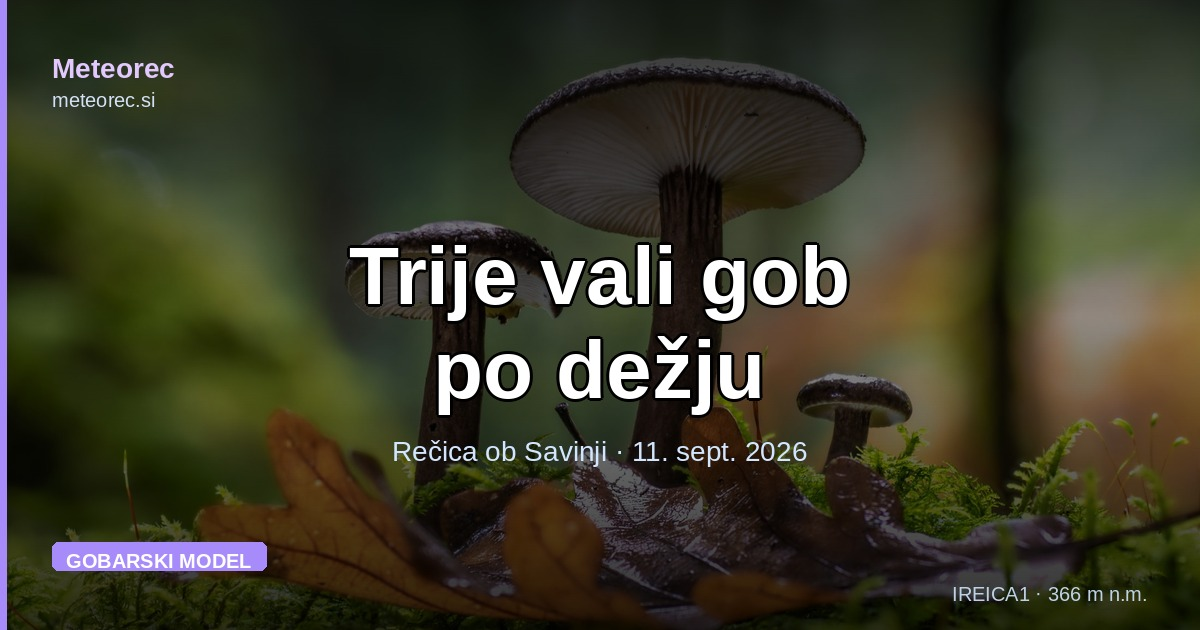
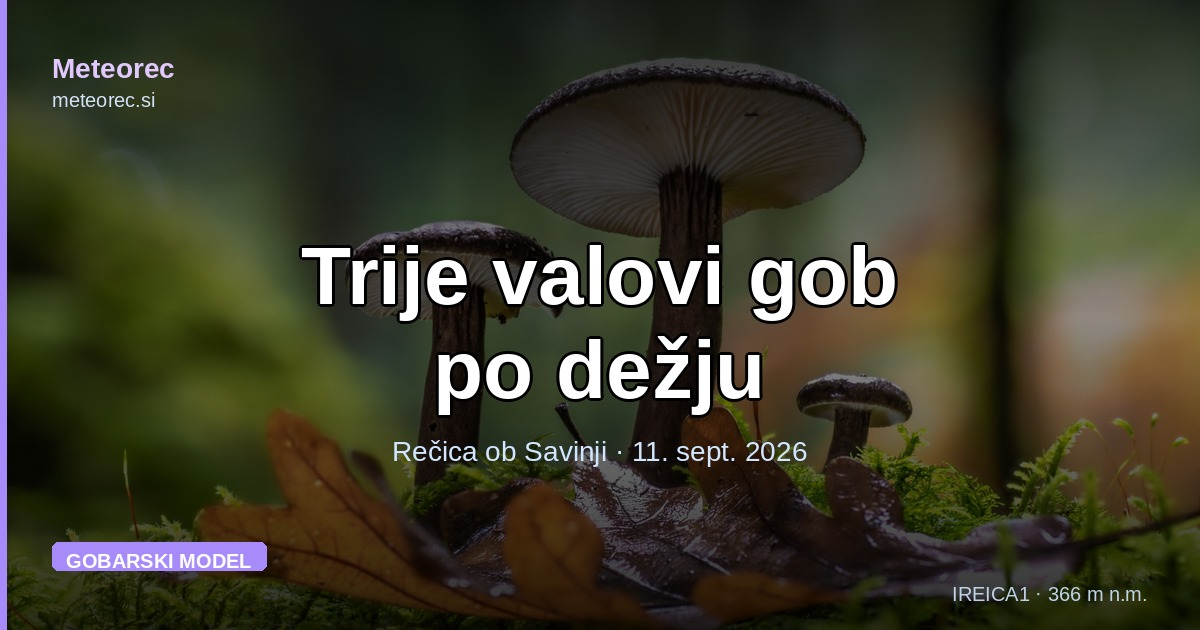
Prezasnuj članek: Trije valovi gob po dežju na dežju sreda-danes
Prejšnja različica je temeljila na dveh manjših dežjih (2. in 5. sept.,
9,7 mm) in trenutnem indeksu, ki je izhajal iz starejšega dežja. Po
avtorjevi zahtevi je članek zdaj zgrajen izključno na dogodku sreda-danes:
četrtkov naliv 85,1 mm (po torkovih 32,9 °C) je edini sprožilec, danes
(petek) je prvi dan po njem, noben od treh valov se še ni začel.

Besedilo je šlo skozi ročno lekturo avtorja (slovnica, izogibanje
"window"-kalku pri opisu padavinskih oken, naravnejši prehodi med
meritvami). Interaktivni drsnik privzeto štarta na dnevu 1 z enim
"danes" markerjem namesto prejšnjih dveh dežnih markerjev.

Ponovno oženo prek wire_all() (posodobljen title/summary v blog.json,
sitemap, RSS, related.json, teme/sorodni povezave, OG slika) --
seo_audit.py in geo_audit.py oba brez napak.

Claude-Session: https://claude.ai/code/session_013P9fH9aUH9qviz2HgqRiyf

Changed region(s): [[0.2467, 0.3619, 0.7708, 0.5127]]

diff --git a/blog/trije-vali-gob-po-dezju-0911.html b/blog/trije-vali-gob-po-dezju-0911.html
@@ -17,19 +17,19 @@ j=d.createElement(s),dl=l!='dataLayer'?'&l='+l:'';j.async=true;j.src=
   gtag('config', 'G-LE8PJ1HR8B');
 </script>
 <meta name="viewport" content="width=device-width, initial-scale=1.0">
-<title>Trije vali gob po dežju | Meteorec</title>
+<title>Trije valovi gob po dežju | Meteorec</title>
 <link rel="canonical" href="https://meteorec.si/blog/trije-vali-gob-po-dezju-0911.html">
 <link rel="alternate" hreflang="sl" href="https://meteorec.si/blog/trije-vali-gob-po-dezju-0911.html">
 <link rel="alternate" hreflang="x-default" href="https://meteorec.si/blog/trije-vali-gob-po-dezju-0911.html">
-<meta name="description" content="Po dežju ne zrastejo vse gobe naenkrat. Razkrojevalke se odzovejo v nekaj dneh, mikorizne vrste (jurčki, lisičke) pa šele čez teden in pol – tem se je pri nas okno pravkar odprlo.">
+<meta name="description" content="V četrtek je v Rečici ob Savinji v enem dnevu padlo 85 mm dežja, temperatura pa se je spustila z 32,9 na 17,5 °C. A gozd se ne odzove čez noč: razkrojevalke pridejo prve, že jutri, mikorizne vrste (jurčki, lisičke) pa šele čez teden in pol.">
 <meta name="keywords" content="katere gobe zrastejo prve po dežju, gobarski indeks, zamik rasti gob, mikorizne glive, razkrojevalke gob, jurček lisička sezona">
 <meta name="robots" content="index, follow, max-image-preview:large">
 <meta name="author" content="Filip Eremita">
 <meta property="og:type" content="article">
 <meta property="og:url" content="https://meteorec.si/blog/trije-vali-gob-po-dezju-0911.html">
 <meta property="og:site_name" content="Meteorec">
-<meta property="og:title" content="Trije vali gob po dežju: kdo pride prvi in kdo šele čez dva tedna">
-<meta property="og:description" content="Po dežju ne zrastejo vse gobe naenkrat. Razkrojevalke se odzovejo v nekaj dneh, mikorizne vrste (jurčki, lisičke) pa šele čez teden in pol – tem se je pri nas okno pravkar odprlo.">
+<meta property="og:title" content="Trije valovi gob po dežju: kdo pride prvi in kdo šele čez dva tedna">
+<meta property="og:description" content="V četrtek je v Rečici ob Savinji v enem dnevu padlo 85 mm dežja, temperatura pa se je spustila z 32,9 na 17,5 °C. A gozd se ne odzove čez noč: razkrojevalke pridejo prve, že jutri, mikorizne vrste (jurčki, lisičke) pa šele čez teden in pol.">
 <meta property="og:image" content="https://meteorec.si/og/trije-vali-gob-po-dezju-0911.jpg">
 <meta property="og:image:width" content="1200">
 <meta property="og:image:height" content="630">
@@ -38,15 +38,15 @@ j=d.createElement(s),dl=l!='dataLayer'?'&l='+l:'';j.async=true;j.src=
 <meta property="article:author" content="Filip Eremita">
 <meta property="article:section" content="Gobarski model">
 <meta name="twitter:card" content="summary_large_image">
-<meta name="twitter:title" content="Trije vali gob po dežju: kdo pride prvi in kdo šele čez dva tedna">
-<meta name="twitter:description" content="Razkrojevalke se na dež odzovejo v nekaj dneh, mikorizne vrste (jurčki, lisičke) šele čez teden in pol – interaktivna časovnica treh valov.">
+<meta name="twitter:title" content="Trije valovi gob po dežju: kdo pride prvi in kdo šele čez dva tedna">
+<meta name="twitter:description" content="85 mm dežja v enem dnevu ne pomeni gob v gozdu čez noč. Razkrojevalke pridejo prve, že jutri, mikorizne vrste (jurčki, lisičke) šele čez teden in pol.">
 <meta name="twitter:image" content="https://meteorec.si/og/trije-vali-gob-po-dezju-0911.jpg">
 <script type="application/ld+json">
 {
   "@context": "https://schema.org",
   "@type": "BlogPosting",
-  "headline": "Trije vali gob po dežju: kdo pride prvi in kdo šele čez dva tedna",
-  "description": "Po dežju ne zrastejo vse gobe naenkrat. Razkrojevalke se odzovejo v nekaj dneh, mikorizne vrste (jurčki, lisičke) pa šele čez teden in pol – tem se je pri nas okno pravkar odprlo.",
+  "headline": "Trije valovi gob po dežju: kdo pride prvi in kdo šele čez dva tedna",
+  "description": "V četrtek je v Rečici ob Savinji v enem dnevu padlo 85 mm dežja, temperatura pa se je spustila z 32,9 na 17,5 °C. A gozd se ne odzove čez noč: razkrojevalke pridejo prve, že jutri, mikorizne vrste (jurčki, lisičke) pa šele čez teden in pol.",
   "image": { "@type": "ImageObject", "url": "https://meteorec.si/og/trije-vali-gob-po-dezju-0911.jpg", "width": 1200, "height": 630 },
   "datePublished": "2026-09-11",
   "dateModified": "2026-09-11",
@@ -65,7 +65,7 @@ j=d.createElement(s),dl=l!='dataLayer'?'&l='+l:'';j.async=true;j.src=
   "itemListElement": [
     { "@type": "ListItem", "position": 1, "name": "Meteorec", "item": "https://meteorec.si/" },
     { "@type": "ListItem", "position": 2, "name": "Blog", "item": "https://meteorec.si/blog/" },
-    { "@type": "ListItem", "position": 3, "name": "Trije vali gob po dežju: kdo pride prvi in kdo šele čez dva tedna" }
+    { "@type": "ListItem", "position": 3, "name": "Trije valovi gob po dežju: kdo pride prvi in kdo šele čez dva tedna" }
   ]
 }
 </script>
@@ -151,52 +151,51 @@ height="0" width="0" style="display:none;visibility:hidden"></iframe></noscript>
   </header>
 
   <nav class="crumbs" aria-label="Drobtine">
-    <a href="/">Meteorec</a> › <a href="/blog/">Blog</a> › Trije vali gob po dežju: kdo pride prvi in kdo šele čez dva tedna
+    <a href="/">Meteorec</a> › <a href="/blog/">Blog</a> › Trije valovi gob po dežju: kdo pride prvi in kdo šele čez dva tedna
   </nav>
 
   <article>
     <div class="stn-badge"><span></span> IREICA1 · Rečica ob Savinji · Gobarski model</div>
-    <h1>Trije vali gob po dežju: kdo pride prvi in kdo šele čez dva tedna</h1>
+    <h1>Trije valovi gob po dežju: kdo pride prvi in kdo šele čez dva tedna</h1>
     <p class="post-meta">11. septembra 2026 · Filip Eremita · postaja IREICA1</p>
 
-    <p class="lead">Danes gobarski model za Rečico ob Savinji kaže indeks 78 – »Odlično« – z vodilno vrsto sivo mušnico. Kdor bi sklepal, da je za to zaslužen zadnji dež, se moti: siva mušnica se je odzvala na dež, ki je padel pred devetimi dnevi. To ni napaka modela, ampak bistvo tega, kako gozd po dežju dejansko požene – in zakaj ni pravega odgovora na vprašanje, koliko dni po dežju je najbolje iti nabirat gobe.</p>
+    <p class="lead">Torek je bil v Rečici ob Savinji še poletno vroč – s 32,9 °C in povsem brez dežja. V sredo se je ozračje ohladilo in navlažilo, v četrtek pa je prišel pravi preobrat: padlo je 85,1 mm dežja v enem samem dnevu, najvišja dnevna temperatura pa se je ustavila pri zgolj 17,5 °C. Kdor bo že ta konec tedna tekal po gozdu v pričakovanju gob, bo večinoma razočaran – takšen naliv gozd sicer prebudi, a ne vseh vrst hkrati in ne kar čez noč.</p>
 
     <div class="mini-stat-grid">
-      <div class="mini-stat"><div class="ms-label">Indeks danes</div><div class="ms-val">78</div><div class="ms-sub">Odlično</div></div>
-      <div class="mini-stat"><div class="ms-label">Vodilna vrsta</div><div class="ms-val" style="font-size:1.05rem">Siva mušnica</div><div class="ms-sub">mikorizna</div></div>
-      <div class="mini-stat"><div class="ms-label">Dež 5. sept.</div><div class="ms-val">9,7 mm</div><div class="ms-sub">star 6 dni</div></div>
-      <div class="mini-stat"><div class="ms-label">Dež 2. sept.</div><div class="ms-val">9,7 mm</div><div class="ms-sub">star 9 dni</div></div>
+      <div class="mini-stat"><div class="ms-label">Dež v četrtek</div><div class="ms-val">85,1 mm</div><div class="ms-sub">10. sept.</div></div>
+      <div class="mini-stat"><div class="ms-label">Padec temperature</div><div class="ms-val" style="font-size:1.15rem">32,9→17,5 °C</div><div class="ms-sub">torek–četrtek</div></div>
+      <div class="mini-stat"><div class="ms-label">Dni od dežja</div><div class="ms-val">1</div><div class="ms-sub">danes, petek</div></div>
+      <div class="mini-stat"><div class="ms-label">Prvi val</div><div class="ms-val" style="font-size:1.15rem">jutri</div><div class="ms-sub">12. sept.</div></div>
     </div>
 
     <span class="section-label">01 — trenutno stanje</span>
-    <h2 id="dva-dezja">Dva dežja, en teden razlike v odzivu</h2>
-    <p>V zadnjih desetih dneh je pri nas dvakrat padlo po 9,7 mm dežja – 2. in 5. septembra – po sicer suhem in vročem avgustu (do 35,6 °C, več dni zapored brez dežja). Model je na to odgovoril z zamikom: indeks je po večjem nalivu 21. avgusta (41,7 mm) ostal visok skoraj do konca meseca, nato pa 8. septembra padel na 58, ko so bila vsa dotedanja okna že zaprta, novi dve pa še nista dovolj dozoreli.</p>
-    <p>Danes, 11. septembra, je indeks spet pri 78 – in prav včeraj, 10. septembra, je bil prvi dan, ko je model pri mikoriznih vrstah dež z 2. septembra, tedaj star osem dni, sploh lahko štel kot sprožilec. To ni naključje, ampak način, kako je model zgrajen.</p>
+    <h2 id="sredin-preobrat">Sredin preobrat: od 32,9 °C do 85 mm dežja v enem dnevu</h2>
+    <p>Konec vročinskega vala je bil oster. V torek, 8. septembra, je bil dan še popolnoma suh, izmerili pa smo vročih 32,9 °C. Že v sredo, 9. septembra, se je najvišja temperatura spustila na 27,7 °C, zračna vlaga pa je poskočila na 90 %, kar je bil jasen znak bližajoče se vremenske fronte. V četrtek, 10. septembra, je nato sledil pravi jesenski preobrat: padlo je kar 85,1 mm dežja, dnevna temperatura pa ni presegla 17,5 °C.</p>
+    <p>Danes, v petek, 11. septembra, mineva prvi dan po tem dežju. In prav to je najpogostejša gobarska napaka: sklepati, da tolikšna količina padavin pomeni, da bodo gobe v gozdu pognale že ta konec tedna.</p>
 
     <span class="section-label">02 — zakaj zamik sploh obstaja</span>
     <h2 id="zakaj-ne-naenkrat">Zakaj gozd ne požene vsega naenkrat</h2>
-    <p>Vsaka goba se na dež odzove drugače, odvisno od tega, kje in kako živi. Razlog ni le v vrsti sami, ampak tudi v podlagi, na kateri raste:</p>
+    <p>Vsaka goba se na dež odzove drugače, odvisno od tega, kje in kako živi. Razlog ni le v posamezni vrsti, ampak tudi v podlagi, na kateri raste:</p>
     <ul>
-      <li><strong>Razkrojevalke stelje in travinja</strong> (orjaški dežnik/marela, velika tintnica, poljski kukmak) živijo tik pod površino, v listju in travi, ki vlago hitro vpijeta in hitro izgubita. Na dež se odzovejo v <strong>2 do 8 dneh</strong>.</li>
-      <li><strong>Lesne vrste</strong> (žvepleni lepoluknjičar, sivorumena mraznica/štorovka) rastejo na lesu, ki vlago zadržuje dlje kot listje, vendar manj kot tla. Njihov odziv pride nekoliko za razkrojevalkami, v <strong>3 do 10 dneh</strong>.</li>
-      <li><strong>Mikorizne vrste</strong> (jesenski goban/jurček, navadna lisička, rumeni ježek) živijo v simbiozi s koreninami dreves. Od gostitelja dobijo del sladkorjev, v zameno pa mu zagotavljajo vodo in minerale, ki jih glivna mreža nabira v tleh. Ta mreža se po dežju najprej sama napolni z vodo, šele nato lahko »financira« nastanek trosnjaka – zato je njihov odziv najpočasnejši, <strong>8 do 16 dni</strong>. Kaj se v tistih dneh dogaja pod zemljo (micelij, primordiji), smo že razložili v članku <a href="/blog/zakaj-po-dezju-gobe-ne-zrastejo-takoj.html" style="color:var(--cyan)">Zakaj po dežju gobe ne zrastejo takoj</a> – tu gre za vprašanje, zakaj se ta zamik med vrstami sploh tako razlikuje.</li>
+      <li><strong>Razkrojevalke stelje in travinja</strong> (orjaški dežnik/marela, velika tintnica, poljski kukmak) živijo tik pod površino, v listju in travi, ki vlago hitro vpijeta in hitro izgubita. Na dež se odzovejo v <strong>dveh do osmih dneh</strong>.</li>
+      <li><strong>Lesne vrste</strong> (žvepleni lepoluknjičar, sivorumena mraznica/štorovka) rastejo na lesu, ki vlago zadržuje dlje kot listje, vendar manj kot tla. Odzovejo se nekoliko kasneje kot razkrojevalke, in sicer v <strong>treh do desetih dneh</strong>.</li>
+      <li><strong>Mikorizne vrste</strong> (jesenski goban/jurček, navadna lisička, rumeni ježek) živijo v simbiozi s koreninami dreves. Ta glivna mreža se po dežju najprej sama napolni z vodo, šele nato lahko »financira« nastanek trosnjaka – zato je njihov odziv najpočasnejši, <strong>od 8 do 16 dni</strong>. Mehaniko tega zamika (micelij, primordiji) smo že razložili v članku <a href="/blog/zakaj-po-dezju-gobe-ne-zrastejo-takoj.html" style="color:var(--cyan)">Zakaj po dežju gobe ne zrastejo takoj</a> – tu pa gre za vprašanje, zakaj se ta zamik med vrstami sploh tako razlikuje.</li>
     </ul>
     <p>Model za Rečico (glej <code>species_rules.yaml</code>) to upošteva tako, da vsaki vrsti glede na njeno skupino premakne padavinsko okno nazaj po časovnici: pri kukmaku denimo išče ustrezen naliv približno tri dni nazaj, pri jurčku pa tudi do dva tedna nazaj.</p>
 
     <span class="section-label">03 — interaktivno</span>
-    <h2 id="preizkusite-sami">Preizkusite sami: kje na časovnici je vaš dež</h2>
-    <p>Povlecite drsnik od 0 do 20 dni in poglejte, katera skupina gob se lahko odzove na posamezni dan. Črtkani zastavici na časovnici kažeta, kje sta danes naša zadnja dva padavinska dogodka: dež izpred šestih dni je sredi okna razkrojevalk in lesnih vrst, dež izpred devetih dni pa je mikoriznim vrstam okno odprl že včeraj.</p>
+    <h2 id="preizkusite-sami">Preizkusite sami: kje na časovnici je četrtkov dež</h2>
+    <p>Povlecite drsnik naprej od današnjega prvega dne in poglejte, kdaj se posamezna skupina sploh lahko odzove na četrtkov naliv. Noben od treh valov se še ni začel – najzgodnejši, razkrojevalke, se začne šele jutri.</p>
 
     <div class="gv-card">
       <div class="gv-readout-row">
         <span class="gv-readout-lab">Dni od dežja</span>
-        <span class="gv-readout-val" id="gvDayVal">9<span>dni</span></span>
+        <span class="gv-readout-val" id="gvDayVal">1<span>dan</span></span>
       </div>
-      <input type="range" class="gv-slider" id="gvSlider" min="0" max="20" value="9" step="1" aria-label="Dni od dežja">
+      <input type="range" class="gv-slider" id="gvSlider" min="0" max="20" value="1" step="1" aria-label="Dni od dežja">
       <div class="gv-axis"><span>0</span><span>5</span><span>10</span><span>15</span><span>20</span></div>
       <div class="gv-flags">
-        <div class="gv-flag" style="left:30%">6 dni<br>(5. 9.)</div>
-        <div class="gv-flag" style="left:45%">9 dni<br>(2. 9.)</div>
+        <div class="gv-flag" style="left:5%">danes<br>(dan 1)</div>
       </div>
       <div class="gv-bands">
         <div class="gv-band-row">
@@ -217,13 +216,13 @@ height="0" width="0" style="display:none;visibility:hidden"></iframe></noscript>
     </div>
 
     <span class="section-label">04 — kaj to pomeni ta teden</span>
-    <h2 id="kaj-to-pomeni">Kaj to pomeni za nabiranje ta teden</h2>
-    <p>Trenutno visok indeks (78) deloma še nosijo pozni predstavniki prvega vala – dežnik in kukmaki po dežju 5. septembra, ki se jim okno počasi zapira. Pravi razlog za oceno »Odlično« pa je začetek tretjega vala: mikorizne vrste, ki so se odzvale na dež izpred devetih dni, bodo v svojem oknu ostale še približno do 18. septembra – če vmes ne pade nov dež, ki bi okno podaljšal ali sprožil nov val.</p>
-    <p>September je ravno mesec, ko se pri nas začne sezona jesenskega gobana (jurčka) – njegovo sezonsko okno se po modelu odpre 1. septembra. Skupaj z lisičko, ki je v sezoni že od maja, in rumenim ježkom so to tri najbolj iskane vrste tega tedna. Od lesnih vrst je zdaj čas za žveplenega lepoluknjičarja in štorovko; klasike pozne jeseni in zime, kot je zimska panjevka, pridejo na vrsto šele čez dobra dva meseca.</p>
+    <h2 id="kaj-to-pomeni">Kaj to pomeni: kdaj dejansko v gozd</h2>
+    <p>Prvi val – razkrojevalke (dežnik, kukmaki) – se začne jutri, v soboto, 12. septembra, in ostane aktiven do 18. septembra. Lesne vrste (žvepleni lepoluknjičar, štorovka) se pridružijo v nedeljo, 13. septembra, njihov čas pa bo trajal do 20. septembra. Za mikorizne vrste – jurček, lisička, rumeni ježek – bo treba počakati do petka, 18. septembra, ko bodo pogoji zanje postali idealni in bodo ugodni vse do 26. septembra.</p>
+    <p>To je še posebej dobra novica za jurčka: njegova sezona se je po modelu začela šele 1. septembra, četrtkov dež pa je prvi resen sprožilec letošnje sezone zanj.</p>
 
     <div class="callout">
       <h3>Skratka</h3>
-      <p>Isti dež pomeni tri različne datume, odvisno od tega, kje goba raste. Razkrojevalke stelje odgovorijo v nekaj dneh, lesne vrste malo pozneje, mikorizne (jurčki, lisičke, ježki) pa šele čez teden in pol do dva. Trenutni indeks 78 je posledica dežja izpred devetih dni, ki je mikoriznim vrstam okno odprl šele včeraj.</p>
+      <p>85 mm dežja v četrtek ne pomeni gob v gozdu že ta konec tedna. Razkrojevalke se oglasijo jutri, lesne vrste v nedeljo, mikorizne (jurček, lisička, rumeni ježek) pa šele okoli 18. septembra.</p>
     </div>
 
     <div class="disclaimer">Indeks je ocena ugodnosti razmer na podlagi vremena in ni obljuba najdbe. Pred nabiranjem vedno preverite vrsto z izkušenim nabiralcem ali mikologom – glejte tudi <a href="/baza-vrst/" style="color:var(--blue)">bazo vrst</a> in <a href="/gobarska-napoved/danes/" style="color:var(--blue)">dnevno napoved po območjih</a>.</div>
@@ -253,7 +252,7 @@ height="0" width="0" style="display:none;visibility:hidden"></iframe></noscript>
   <!-- sorodni:start — samodejno, wire_all(); ne urejaj ročno -->
   <section class="related-posts">
     <h2 class="related-title">Sorodni članki</h2>
-    <div class="related-grid"><a class="related-card" href="/blog/zakaj-po-dezju-gobe-ne-zrastejo-takoj.html"><span class="related-date">21. julija 2026</span><span class="related-h">Zakaj po dežju gobe ne zrastejo takoj</span><span class="related-sum">Med dežjem in prvimi gobami v mahu praviloma mine 7 do 14 dni. Razložimo, kaj se v tem času dogaja pod zemljo, in na pri…</span></a><a class="related-card" href="/blog/kdaj-po-tednu-dezja-zrastejo-gobe-0822.html"><span class="related-date">22. avgusta 2026</span><span class="related-h">Kdaj po tednu dežja zrastejo gobe?</span><span class="related-sum">Teden je v Zgornji Savinjski dolini prinesel 68,3 mm dežja in visoko vlažnost. Koliko časa mine, preden gobe dejansko zr…</span></a><a class="related-card" href="/blog/gobarska-sezona-julij-2026-kje-nabirati.html"><span class="related-date">7. julija 2026</span><span class="related-h">Kje v Zgornji Savinjski dolini rastejo gobe zdaj: gobarski indeks po petih območjih</span><span class="related-sum">Julij je nominalno sezona jurčkov in lisičk, a letos dno Zgornje Savinjske doline zaostaja: gobarski indeks za Rečico ob…</span></a></div>
+    <div class="related-grid"><a class="related-card" href="/blog/zakaj-po-dezju-gobe-ne-zrastejo-takoj.html"><span class="related-date">21. julija 2026</span><span class="related-h">Zakaj po dežju gobe ne zrastejo takoj</span><span class="related-sum">Med dežjem in prvimi gobami v mahu praviloma mine 7 do 14 dni. Razložimo, kaj se v tem času dogaja pod zemljo, in na pri…</span></a><a class="related-card" href="/blog/kdaj-po-tednu-dezja-zrastejo-gobe-0822.html"><span class="related-date">22. avgusta 2026</span><span class="related-h">Kdaj po tednu dežja zrastejo gobe?</span><span class="related-sum">Teden je v Zgornji Savinjski dolini prinesel 68,3 mm dežja in visoko vlažnost. Koliko časa mine, preden gobe dejansko zr…</span></a><a class="related-card" href="/blog/gobarska-napoved-za-zgornjo-savinjsko-dolino-kaj-pravita-vla-0715.html"><span class="related-date">15. julija 2026</span><span class="related-h">Gobarska napoved za Zgornjo Savinjsko dolino: kaj pravita vlaga in dež</span><span class="related-sum">Gobarska napoved Zgornja Savinjska dolina: trenutna vlažnost, temperature in napovedan dež povedo, kdaj rastejo gobe in …</span></a></div>
   </section>
   <!-- sorodni:end -->
 
@@ -275,8 +274,8 @@ height="0" width="0" style="display:none;visibility:hidden"></iframe></noscript>
 <script>
 (function () {
   const PAGE_URL   = "https://meteorec.si/blog/trije-vali-gob-po-dezju-0911.html";
-  const PAGE_TITLE = "Trije vali gob po dežju: kdo pride prvi in kdo šele čez dva tedna | Meteorec";
-  const PAGE_TEXT  = "Razkrojevalke se na dež odzovejo v nekaj dneh, mikorizne vrste (jurčki, lisičke) šele čez teden in pol – interaktivna časovnica treh valov.";
+  const PAGE_TITLE = "Trije valovi gob po dežju: kdo pride prvi in kdo šele čez dva tedna | Meteorec";
+  const PAGE_TEXT  = "85 mm dežja v enem dnevu ne pomeni gob v gozdu čez noč. Razkrojevalke pridejo prve, že jutri, mikorizne vrste (jurčki, lisičke) šele čez teden in pol.";
   const enc = encodeURIComponent;
   document.getElementById('btn-wa').href = 'https://wa.me/?text=' + enc(PAGE_TEXT + ' ' + PAGE_URL);
   document.getElementById('btn-x').href = 'https://x.com/intent/tweet?text=' + enc(PAGE_TEXT) + '&url=' + enc(PAGE_URL);
@@ -308,6 +307,7 @@ height="0" width="0" style="display:none;visibility:hidden"></iframe></noscript>
   var slider = document.getElementById('gvSlider');
   if (!slider) return;
   var dayVal = document.getElementById('gvDayVal');
+  var dayUnit = dayVal.querySelector('span');
   var panel = document.getElementById('gvStatePanel');
   var plays = [document.getElementById('gvPlay1'), document.getElementById('gvPlay2'), document.getElementById('gvPlay3')];
 
@@ -322,6 +322,7 @@ height="0" width="0" style="display:none;visibility:hidden"></iframe></noscript>
   function render(){
     var day = parseInt(slider.value, 10);
     dayVal.childNodes[0].nodeValue = day;
+    dayUnit.textContent = day === 1 ? 'dan' : 'dni';
     plays.forEach(function(p){ p.style.left = pct(day); });
 
     panel.innerHTML = '';

diff --git a/blog/zakaj-po-dezju-gobe-ne-zrastejo-takoj.html b/blog/zakaj-po-dezju-gobe-ne-zrastejo-takoj.html
@@ -204,7 +204,7 @@ height="0" width="0" style="display:none;visibility:hidden"></iframe></noscript>
   <!-- sorodni:start — samodejno, wire_all(); ne urejaj ročno -->
   <section class="related-posts">
     <h2 class="related-title">Sorodni članki</h2>
-    <div class="related-grid"><a class="related-card" href="/blog/gobarska-sezona-julij-2026-kje-nabirati.html"><span class="related-date">7. julija 2026</span><span class="related-h">Kje v Zgornji Savinjski dolini rastejo gobe zdaj: gobarski indeks po petih območjih</span><span class="related-sum">Julij je nominalno sezona jurčkov in lisičk, a letos dno Zgornje Savinjske doline zaostaja: gobarski indeks za Rečico ob…</span></a><a class="related-card" href="/blog/kdaj-po-tednu-dezja-zrastejo-gobe-0822.html"><span class="related-date">22. avgusta 2026</span><span class="related-h">Kdaj po tednu dežja zrastejo gobe?</span><span class="related-sum">Teden je v Zgornji Savinjski dolini prinesel 68,3 mm dežja in visoko vlažnost. Koliko časa mine, preden gobe dejansko zr…</span></a><a class="related-card" href="/blog/trije-vali-gob-po-dezju-0911.html"><span class="related-date">11. septembra 2026</span><span class="related-h">Trije vali gob po dežju: kdo pride prvi in kdo šele čez dva tedna</span><span class="related-sum">Po dežju ne zrastejo vse gobe naenkrat. Razkrojevalke se odzovejo v nekaj dneh, mikorizne vrste (jurčki, lisičke) pa šel…</span></a></div>
+    <div class="related-grid"><a class="related-card" href="/blog/gobarska-sezona-julij-2026-kje-nabirati.html"><span class="related-date">7. julija 2026</span><span class="related-h">Kje v Zgornji Savinjski dolini rastejo gobe zdaj: gobarski indeks po petih območjih</span><span class="related-sum">Julij je nominalno sezona jurčkov in lisičk, a letos dno Zgornje Savinjske doline zaostaja: gobarski indeks za Rečico ob…</span></a><a class="related-card" href="/blog/kdaj-po-tednu-dezja-zrastejo-gobe-0822.html"><span class="related-date">22. avgusta 2026</span><span class="related-h">Kdaj po tednu dežja zrastejo gobe?</span><span class="related-sum">Teden je v Zgornji Savinjski dolini prinesel 68,3 mm dežja in visoko vlažnost. Koliko časa mine, preden gobe dejansko zr…</span></a><a class="related-card" href="/blog/trije-vali-gob-po-dezju-0911.html"><span class="related-date">11. septembra 2026</span><span class="related-h">Trije valovi gob po dežju: kdo pride prvi in kdo šele čez dva tedna</span><span class="related-sum">V četrtek je v Rečici ob Savinji v enem dnevu padlo 85 mm dežja, temperatura pa se je spustila z 32,9 na 17,5 °C. A gozd…</span></a></div>
   </section>
   <!-- sorodni:end -->
 

diff --git a/blog/index.html b/blog/index.html
@@ -261,11 +261,11 @@ height="0" width="0" style="display:none;visibility:hidden"></iframe></noscript>
   <ul class="post-list">
     <li>
       <a class="post-card" href="trije-vali-gob-po-dezju-0911.html">
-        <img class="post-thumb" src="/og/trije-vali-gob-po-dezju-0911.jpg" alt="Trije vali gob po dežju: kdo pride prvi in kdo šele čez dva tedna" width="260" height="260" loading="eager" fetchpriority="high">
+        <img class="post-thumb" src="/og/trije-vali-gob-po-dezju-0911.jpg" alt="Trije valovi gob po dežju: kdo pride prvi in kdo šele čez dva tedna" width="260" height="260" loading="eager" fetchpriority="high">
         <div class="post-card-body">
           <div class="date">11. septembra 2026</div>
-          <h2>Trije vali gob po dežju: kdo pride prvi in kdo šele čez dva tedna</h2>
-          <p>Po dežju ne zrastejo vse gobe naenkrat. Razkrojevalke se odzovejo v nekaj dneh, mikorizne vrste (jurčki, lisičke) pa šele čez teden in pol – tem se je pri nas okno pravkar odprlo.</p>
+          <h2>Trije valovi gob po dežju: kdo pride prvi in kdo šele čez dva tedna</h2>
+          <p>V četrtek je v Rečici ob Savinji v enem dnevu padlo 85 mm dežja, temperatura pa se je spustila z 32,9 na 17,5 °C. A gozd se ne odzove čez noč: razkrojevalke pridejo prve, že jutri, mikorizne vrste (jurčki, lisičke) pa šele čez teden in pol.</p>
         </div>
       </a>
     </li>

diff --git a/blog/tema/gobe/index.html b/blog/tema/gobe/index.html
@@ -45,11 +45,11 @@
   <ul class="post-list">
     <li>
       <a class="post-card" href="/blog/trije-vali-gob-po-dezju-0911.html">
-        <img class="post-thumb" src="/og/trije-vali-gob-po-dezju-0911.jpg" alt="Trije vali gob po dežju: kdo pride prvi in kdo šele čez dva tedna" width="260" height="260" loading="eager" fetchpriority="high">
+        <img class="post-thumb" src="/og/trije-vali-gob-po-dezju-0911.jpg" alt="Trije valovi gob po dežju: kdo pride prvi in kdo šele čez dva tedna" width="260" height="260" loading="eager" fetchpriority="high">
         <div class="post-card-body">
           <div class="date">11. septembra 2026</div>
-          <h2>Trije vali gob po dežju: kdo pride prvi in kdo šele čez dva tedna</h2>
-          <p>Po dežju ne zrastejo vse gobe naenkrat. Razkrojevalke se odzovejo v nekaj dneh, mikorizne vrste (jurčki, lisičke) pa šele čez teden in pol – tem se je pri nas okno pravkar odprlo.</p>
+          <h2>Trije valovi gob po dežju: kdo pride prvi in kdo šele čez dva tedna</h2>
+          <p>V četrtek je v Rečici ob Savinji v enem dnevu padlo 85 mm dežja, temperatura pa se je spustila z 32,9 na 17,5 °C. A gozd se ne odzove čez noč: razkrojevalke pridejo prve, že jutri, mikorizne vrste (jurčki, lisičke) pa šele čez teden in pol.</p>
         </div>
       </a>
     </li>

diff --git a/blog/tema/ireica1/index.html b/blog/tema/ireica1/index.html
@@ -45,11 +45,11 @@
   <ul class="post-list">
     <li>
       <a class="post-card" href="/blog/trije-vali-gob-po-dezju-0911.html">
-        <img class="post-thumb" src="/og/trije-vali-gob-po-dezju-0911.jpg" alt="Trije vali gob po dežju: kdo pride prvi in kdo šele čez dva tedna" width="260" height="260" loading="eager" fetchpriority="high">
+        <img class="post-thumb" src="/og/trije-vali-gob-po-dezju-0911.jpg" alt="Trije valovi gob po dežju: kdo pride prvi in kdo šele čez dva tedna" width="260" height="260" loading="eager" fetchpriority="high">
         <div class="post-card-body">
           <div class="date">11. septembra 2026</div>
-          <h2>Trije vali gob po dežju: kdo pride prvi in kdo šele čez dva tedna</h2>
-          <p>Po dežju ne zrastejo vse gobe naenkrat. Razkrojevalke se odzovejo v nekaj dneh, mikorizne vrste (jurčki, lisičke) pa šele čez teden in pol – tem se je pri nas okno pravkar odprlo.</p>
+          <h2>Trije valovi gob po dežju: kdo pride prvi in kdo šele čez dva tedna</h2>
+          <p>V četrtek je v Rečici ob Savinji v enem dnevu padlo 85 mm dežja, temperatura pa se je spustila z 32,9 na 17,5 °C. A gozd se ne odzove čez noč: razkrojevalke pridejo prve, že jutri, mikorizne vrste (jurčki, lisičke) pa šele čez teden in pol.</p>
         </div>
       </a>
     </li>

diff --git a/blog/tema/zgornja-savinjska-dolina/index.html b/blog/tema/zgornja-savinjska-dolina/index.html
@@ -45,11 +45,11 @@
   <ul class="post-list">
     <li>
       <a class="post-card" href="/blog/trije-vali-gob-po-dezju-0911.html">
-        <img class="post-thumb" src="/og/trije-vali-gob-po-dezju-0911.jpg" alt="Trije vali gob po dežju: kdo pride prvi in kdo šele čez dva tedna" width="260" height="260" loading="eager" fetchpriority="high">
+        <img class="post-thumb" src="/og/trije-vali-gob-po-dezju-0911.jpg" alt="Trije valovi gob po dežju: kdo pride prvi in kdo šele čez dva tedna" width="260" height="260" loading="eager" fetchpriority="high">
         <div class="post-card-body">
           <div class="date">11. septembra 2026</div>
-          <h2>Trije vali gob po dežju: kdo pride prvi in kdo šele čez dva tedna</h2>
-          <p>Po dežju ne zrastejo vse gobe naenkrat. Razkrojevalke se odzovejo v nekaj dneh, mikorizne vrste (jurčki, lisičke) pa šele čez teden in pol – tem se je pri nas okno pravkar odprlo.</p>
+          <h2>Trije valovi gob po dežju: kdo pride prvi in kdo šele čez dva tedna</h2>
+          <p>V četrtek je v Rečici ob Savinji v enem dnevu padlo 85 mm dežja, temperatura pa se je spustila z 32,9 na 17,5 °C. A gozd se ne odzove čez noč: razkrojevalke pridejo prve, že jutri, mikorizne vrste (jurčki, lisičke) pa šele čez teden in pol.</p>
         </div>
       </a>
     </li>
